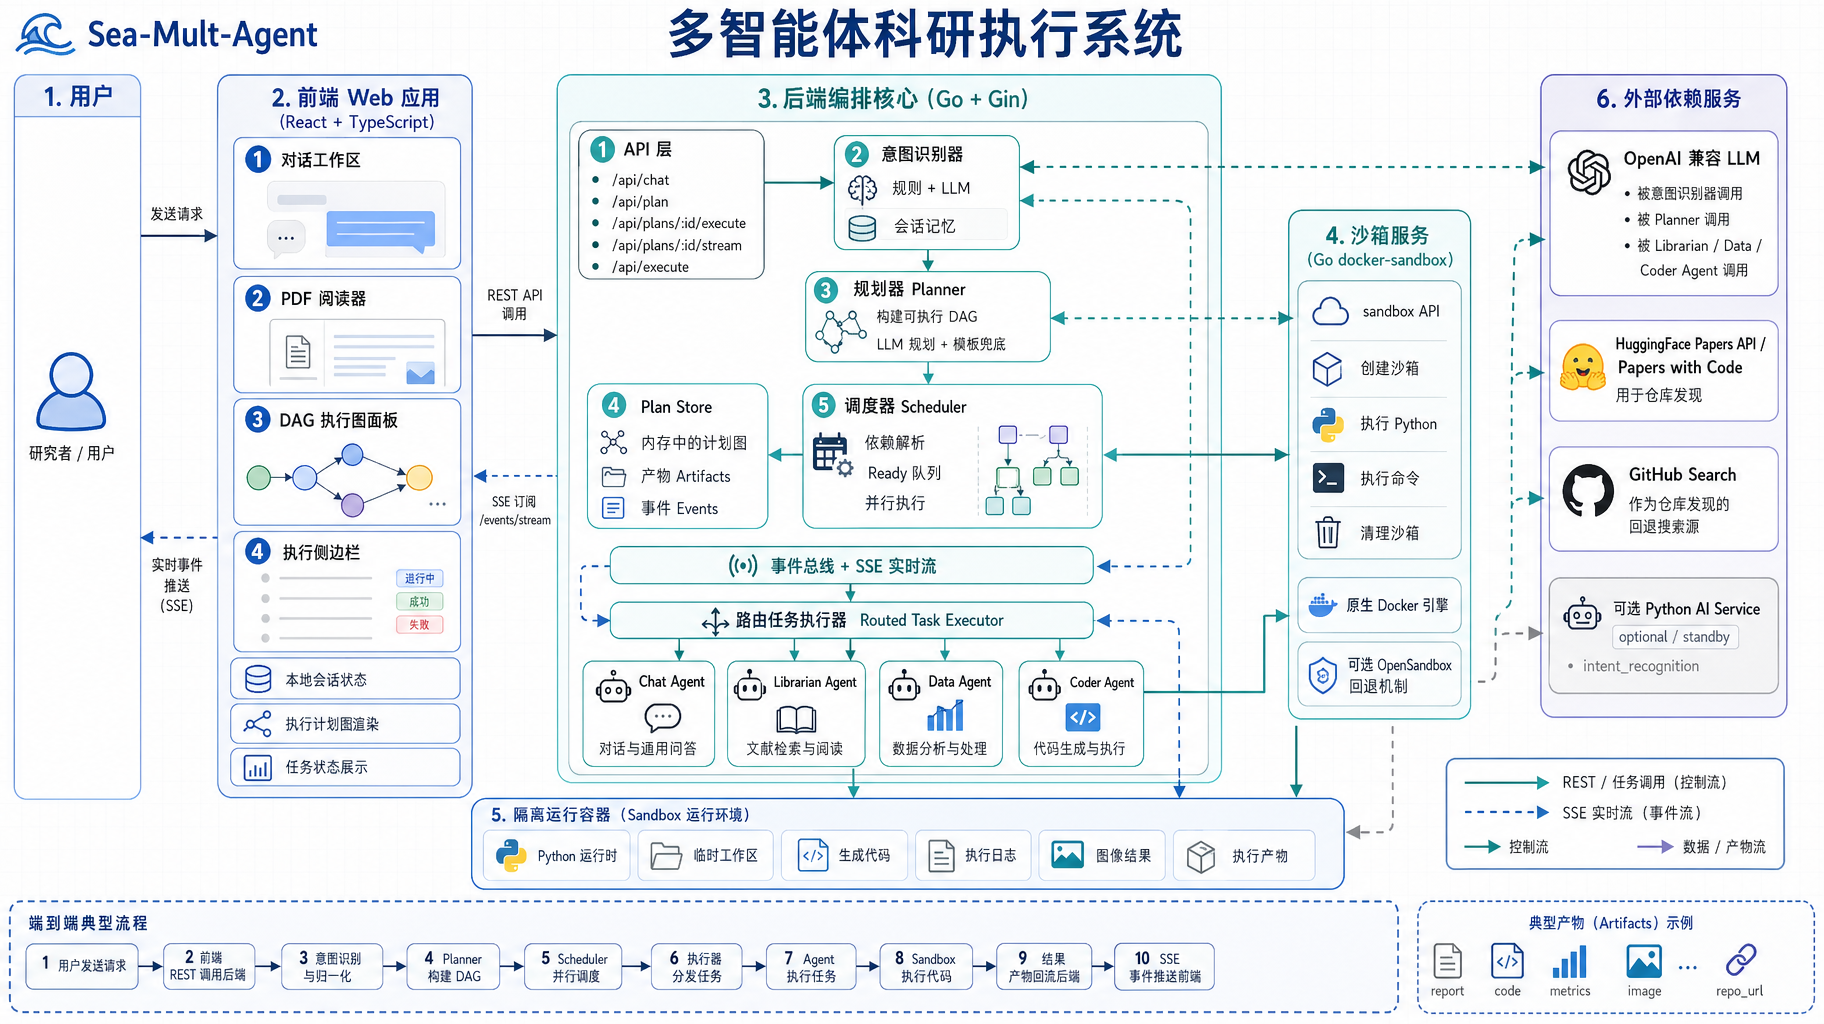
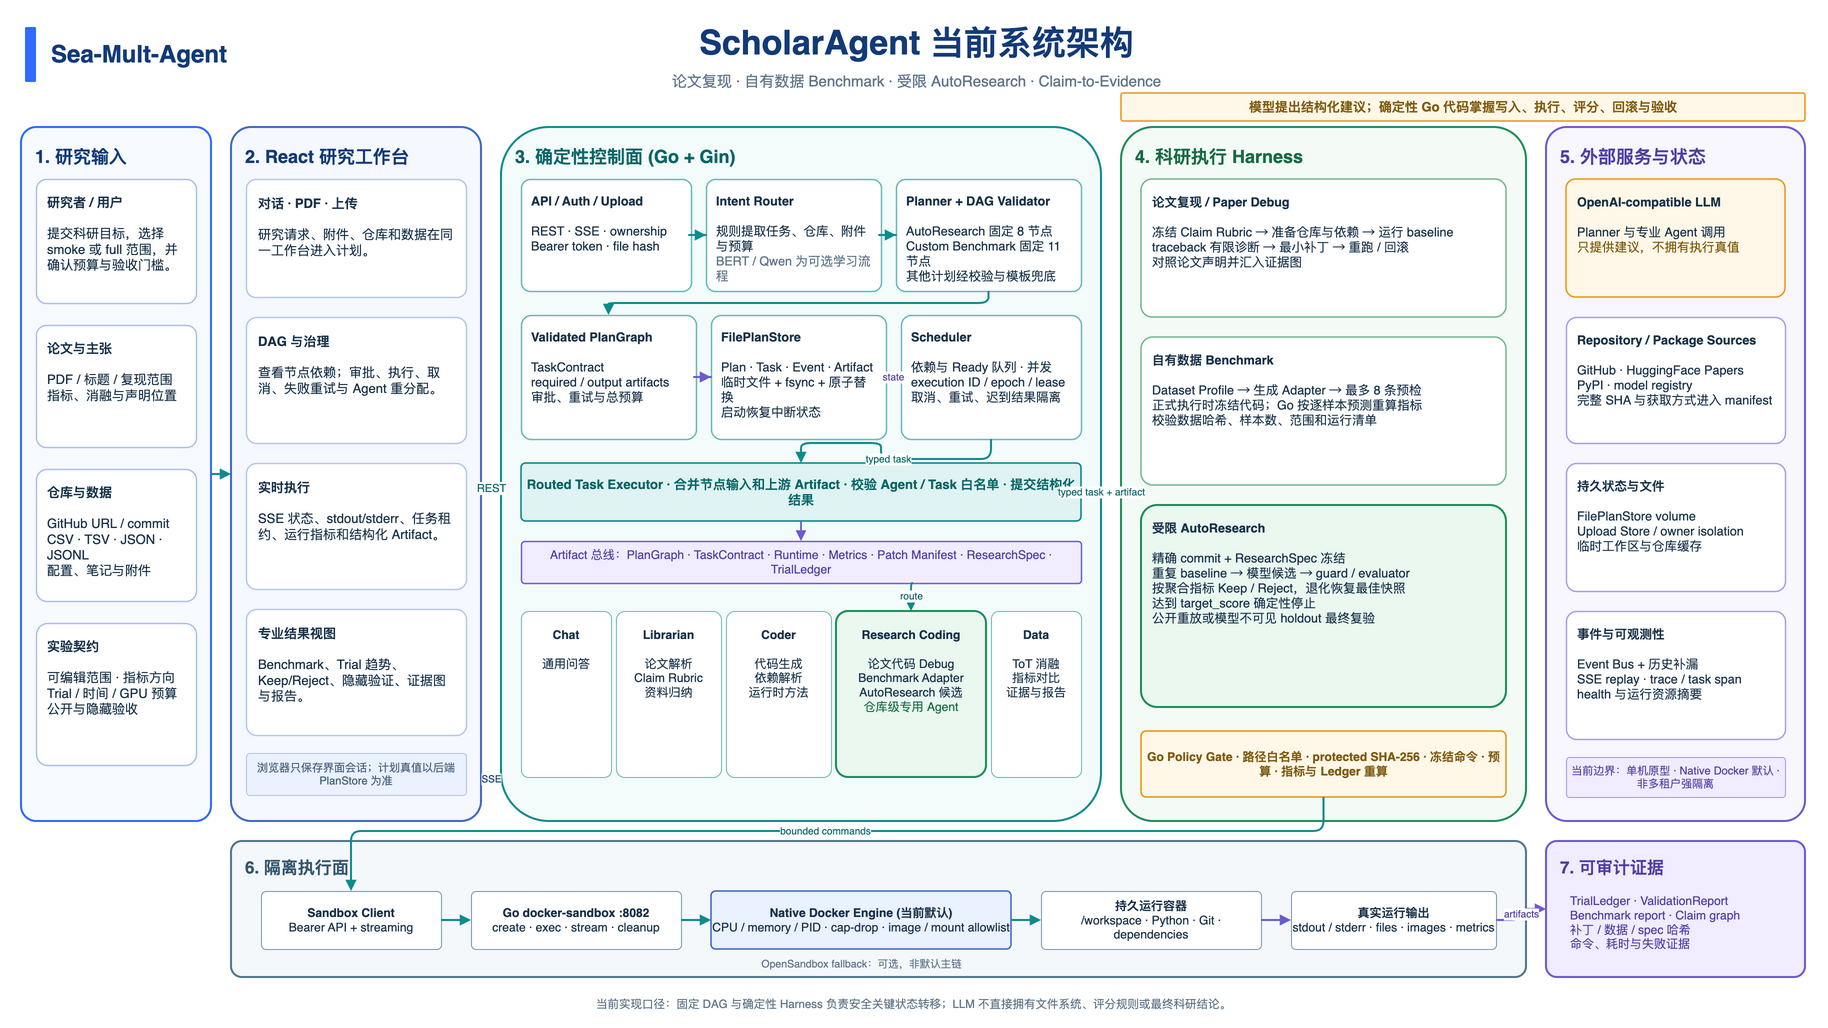
docs: refresh current architecture overview

Changed region(s): [[0.0, 0.0, 1.0, 1.0]]

diff --git a/ArchitectureDiagram.audit.md b/ArchitectureDiagram.audit.md
@@ -1,0 +1,60 @@
+# ArchitectureDiagram visual audit
+
+Reference: the previous `ArchitectureDiagram.png`, updated against the current implementation described in `scholar-agent/docs/project_architecture.md`.
+
+## Style tokens
+
+- Export: 1828 x 1028 PNG on a clean white background; the Draw.io editor grid is intentionally not printed.
+- Typography: Arial/Helvetica; title 34 px; section titles 18-20 px; card titles 15-17 px; body 12-14 px.
+- Palette: navy `#123B78`, blue `#2F6BFF`, teal `#0F8B8D`, green `#1E8E5A`, amber `#E59B19`, purple `#6D5BD0`, ink `#18324A`, muted `#60758A`.
+- Cards: white or lightly tinted fill, 1.5-2 px border, 8 px corner radius, minimal shadow.
+- Connectors: solid teal for control, blue dashed for SSE, purple for Artifact/evidence, amber dashed for model suggestions.
+
+## Visible-element inventory
+
+| ID | Approximate region | Content / visual | Medium | Style notes | Status |
+|---|---|---|---|---|---|
+| canvas | 0,0,1828,1028 | Clean white canvas | native | no printed grid | accepted |
+| brand | 28,24,300,56 | Sea-Mult-Agent wordmark and wave mark | native | navy, bold | accepted |
+| title | 430,24,970,52 | ScholarAgent current system title | native | centered navy title | accepted |
+| subtitle | 520,75,780,30 | Product scope subtitle | native | muted center text | accepted |
+| input_panel | 24,126,220,700 | Researcher inputs and request types | native | blue border, three input cards | accepted |
+| workbench_panel | 270,126,280,700 | React workbench, uploads, views and controls | native | blue tint, four cards | accepted |
+| control_panel | 580,126,580,700 | Gin API, intent, Planner, PlanStore, Scheduler, Routed Executor | native | teal border and internal cards | accepted |
+| agent_strip | 604,588,530,208 | Chat, Librarian, Coder, Research Coding, Data | native | five role cards; Research Coding highlighted | accepted |
+| harness_panel | 1190,126,350,700 | Paper Debug, Benchmark and AutoResearch harnesses plus policy gate | native | green border; three harness cards | accepted |
+| infra_panel | 1570,126,230,700 | LLM and repository sources, persistent state, events and observability | native | purple border, stacked cards | accepted |
+| runtime_band | 270,852,1270,118 | docker-sandbox, Native Docker, optional OpenSandbox, workspace | native | light slate band | accepted |
+| evidence_band | 1570,852,230,118 | TrialLedger, validation, evidence graph | native | purple tint | accepted |
+| model_boundary | 1188,96,612,28 | Model proposes; deterministic code decides | native | amber callout | accepted |
+| footer | 24,988,1776,22 | Current implementation boundary | native | muted small text | accepted |
+
+## Arrow inventory
+
+| ID | Source -> target | Type | Meaning | Status |
+|---|---|---|---|---|
+| flow_1 | input_panel -> workbench_panel | solid teal | user request and attachments | accepted |
+| flow_2 | workbench_panel -> control_panel | solid teal | REST commands | accepted |
+| flow_3 | control_panel -> workbench_panel | dashed blue | SSE events and state replay | accepted |
+| flow_4 | API -> Intent Router -> Planner | solid teal | request interpretation and plan generation | accepted |
+| flow_5 | Planner -> PlanGraph -> FilePlanStore <-> Scheduler | teal and purple | validated plan persistence and scheduler state | accepted |
+| flow_6 | Scheduler -> Routed Task Executor | solid teal | leased typed task | accepted |
+| flow_7 | Executor -> Artifact bus -> Research Coding | teal and purple | typed artifacts and specialist routing | accepted |
+| flow_8 | Executor -> research harnesses | solid teal | typed task and artifact dispatch | accepted |
+| flow_9 | Policy gate -> Sandbox Client -> docker-sandbox -> Native Docker | solid teal | bounded command execution | accepted |
+| flow_10 | Container -> runtime output -> evidence | purple | stdout, metrics, files and auditable results | accepted |
+
+## Content boundaries
+
+- The production intent path is rule extraction plus Planner; BERT/Qwen is labelled optional rather than part of the default request path.
+- `sandbox_agent` is shown as a logical role implemented by deterministic runtime methods, not as an independent model Agent.
+- Native Docker is shown as the current default. OpenSandbox remains optional; CubeSandbox is not shown as implemented.
+- AutoResearch uses a linear bounded TrialLedger, not tree search.
+- Hidden holdout is described as model-invisible, not an independent zero-trust service.
+
+## Final visual audit
+
+- Full-size export inspected: accepted after two render passes.
+- Text clipping / overlap: accepted; all card copy remains inside its container.
+- Connector routing and arrowheads: accepted after removing nonessential cross-panel lines and routing the sandbox call below the main panels.
+- README rendering at repository width: accepted; the overview remains scannable, with the full-size PNG available on click.

diff --git a/scholar-agent/docs/project_architecture.md b/scholar-agent/docs/project_architecture.md
@@ -2,7 +2,7 @@
 
 本文描述 `scholar-agent/` 当前已经实现并可运行的架构。它以代码为准，重点说明服务边界、核心数据模型、Agent 调度、论文复现、Benchmark Harness、持久化与安全边界。早期设想和尚未接入主链的模块不会被写成现有能力。
 
-最后核对日期：2026-08-06。
+最后核对日期：2026-08-11。
 
 ## 1. 架构目标
 
@@ -15,7 +15,9 @@ ScholarAgent 是一个面向科研任务的单机多 Agent 执行系统。它把
 3. **模型负责建议，代码负责约束**：LLM 可以规划、生成和修复；DAG 校验、预算、哈希、指标重算和沙箱策略由确定性代码执行。
 4. **自动化必须有边界**：ToT、ReAct、重试、并发、运行时长和样本数都有明确上限。
 
-![Sea-Mult-Agent architecture](../../ArchitectureDiagram.png)
+![ScholarAgent current architecture](../../ArchitectureDiagram.png)
+
+总图的可编辑源文件见 [`ArchitectureDiagram.drawio`](../../ArchitectureDiagram.drawio)。图中只展示当前已接入主链的能力；Native Docker 是默认执行引擎，OpenSandbox 是可选 fallback，BERT/Qwen 意图模型不属于默认生产请求链。
 
 ## 2. 系统总览
 
